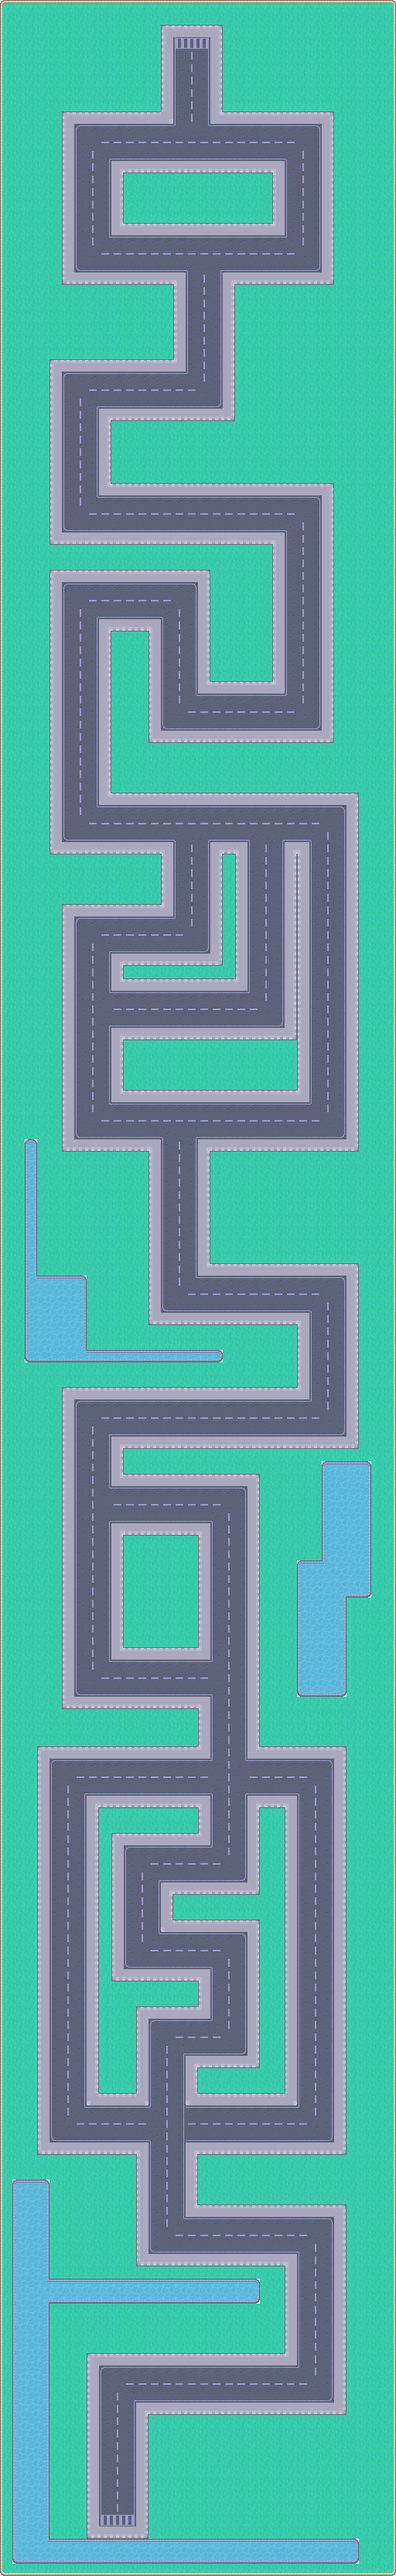
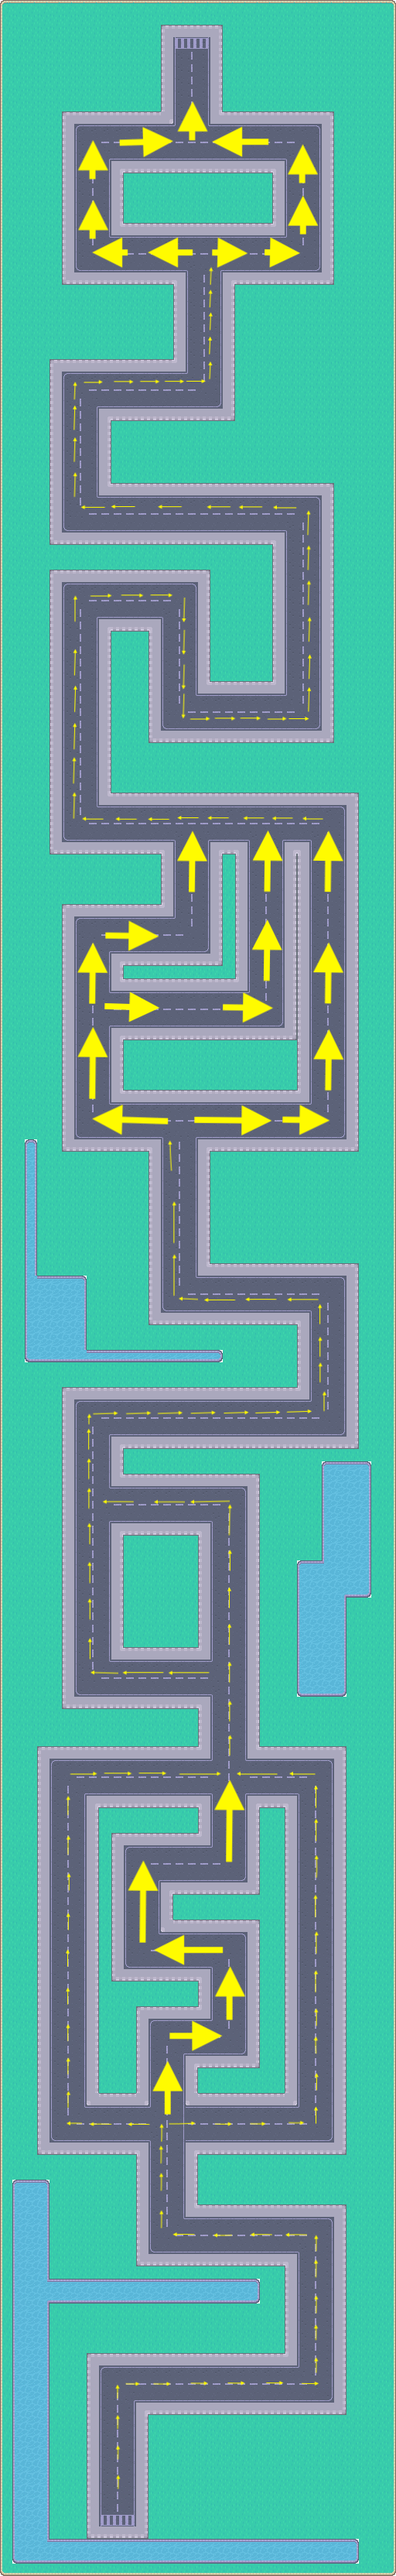
added rewards and arrows to level4, all maps has arrows.

diff --git a/shop.js b/shop.js
@@ -8,23 +8,23 @@ class Shop {
                 damage: MissileType.MAVERICK.damage, speed: MissileType.MAVERICK.speed, 
                 fireRate: MissileType.MAVERICK.fireRate, frameIndex: MissileType.MAVERICK.frameIndex, 
                 missileType: MissileType.MAVERICK },
-            { name: "Side Winder",  price: 1000,    type: "Missile", 
+            { name: "Side Winder",  price: 600,    type: "Missile", 
                 damage: MissileType.SIDEWINDER.damage, speed: MissileType.SIDEWINDER.speed, 
                 fireRate: MissileType.SIDEWINDER.fireRate, frameIndex: MissileType.SIDEWINDER.frameIndex, 
                 missileType: MissileType.SIDEWINDER },
-            { name: "Storm Shadow", price: 10000,   type: "Missile", 
+            { name: "Storm Shadow", price: 650,   type: "Missile", 
                 damage: MissileType.STORM_SHADOW.damage, speed: MissileType.STORM_SHADOW.speed, 
                 fireRate: MissileType.STORM_SHADOW.fireRate, frameIndex: MissileType.STORM_SHADOW.frameIndex, 
                 missileType: MissileType.STORM_SHADOW },
-            { name: "Sparrow",      price: 10500,   type: "Missile", 
+            { name: "Sparrow",      price: 700,   type: "Missile", 
                 damage: MissileType.SPARROW.damage, speed: MissileType.SPARROW.speed, 
                 fireRate: MissileType.SPARROW.fireRate, frameIndex: MissileType.SPARROW.frameIndex, 
                 missileType: MissileType.SPARROW },
-            { name: "Torpedo",      price: 10600,   type: "Missile", 
+            { name: "Torpedo",      price: 800,   type: "Missile", 
                 damage: MissileType.TORPEDO.damage, speed: MissileType.TORPEDO.speed, 
                 fireRate: MissileType.TORPEDO.fireRate, frameIndex: MissileType.TORPEDO.frameIndex, 
                 missileType: MissileType.TORPEDO },
-            { name: "Alamo",        price: 500,     type: "Missile", 
+            { name: "Alamo",        price: 555,     type: "Missile", 
                 damage: MissileType.ALAMO.damage, speed: MissileType.ALAMO.speed, 
                 fireRate: MissileType.ALAMO.fireRate, frameIndex: MissileType.ALAMO.frameIndex, 
                 missileType: MissileType.ALAMO },
@@ -32,9 +32,9 @@ class Shop {
                 damage: MissileType.SMALL_ROCKET.damage, speed: MissileType.SMALL_ROCKET.speed, 
                 fireRate: MissileType.SMALL_ROCKET.fireRate, frameIndex: MissileType.SMALL_ROCKET.frameIndex, 
                 missileType: MissileType.SMALL_ROCKET},
-            { name: "Speedster",    price: 1500,    type: "Car", 
+            { name: "Speedster",    price: 800,    type: "Car", 
                 damage: "Zero", speed: "55 mph" },
-            { name: "Tank",         price: 2000,    type: "Tank", 
+            { name: "Tank",         price: 600,    type: "Tank", 
                 damage: "Zero", speed: "25 mph" }
         ];
         this.playerInventory = [];

diff --git a/scenes.js b/scenes.js
@@ -396,4 +396,14 @@ const LEVEL_FOUR = {
         {x: 63, y: 251, direction: Math.Pi / 2, totalStep: 225},
         {x: 449, y: 251, direction: -Math.PI / 2, totalStep: 225},
     ],
+    level2boon: [
+        {x: 245, y: 3079},
+        {x: 200, y: 2889},
+        {x: 100, y: 1940},
+    ],
+    superenergy: [
+        {x: 200, y: 2500},
+        {x: 280, y: 1940},
+        {x: 400, y: 1820},
+    ],
 }
